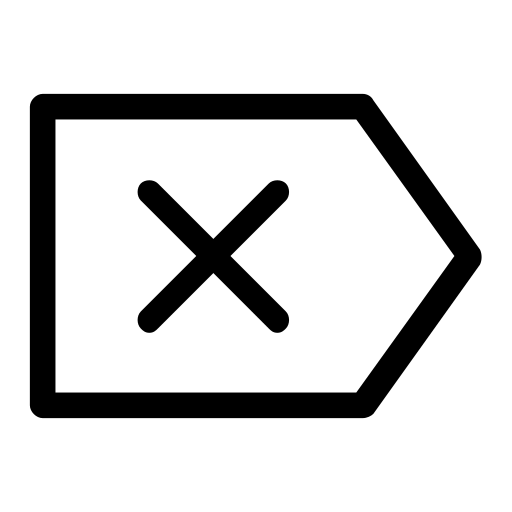
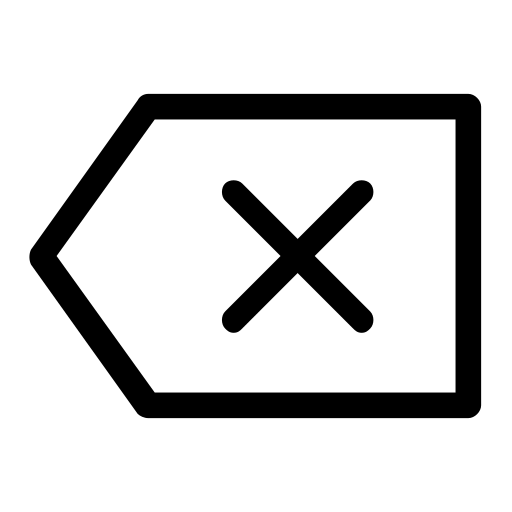
feat: implement keyboard with images for Enter and Backspace, update to-do list, for images import new file custom.d.ts (TEST IF USEFULL), and implementation of a test in the rules of webpack.cjs

Changed region(s): [[0.0312, 0.1562, 0.3125, 0.8438], [0.6875, 0.1562, 0.9688, 0.8438], [0.25, 0.3438, 0.75, 0.6562]]

diff --git a/frontend/src/components/Wordle/Keyboard.tsx b/frontend/src/components/Wordle/Keyboard.tsx
@@ -1,23 +1,48 @@
 import type  { PuzzleStoreType } from "./PuzzleStore";
 import { observer, useLocalObservable } from "mobx-react-lite";
+import enterImg from './img/symbole-de-la-fleche-gauche-dans-un-cercle.png';
+import backspaceImg from './img/retour-arriere.png';
 
 
 export default function Keyboard({ store }: { store: PuzzleStoreType }){	
 
-	// const qwerty = ['qwertyuiop', 'asdfghjkl', '', 'zxcvbnm', '']
-	const qwerty = ['qwertyuiop', 'asdfghjkl', 'zxcvbnm']
-	return (
-  	<div> 
-		{qwerty.map((row) => (
+	const qwerty = [
+	'qwertyuiop',
+	'asdfghjkl',
+	['Enter', ...'zxcvbnm'.split(''), 'Backspace'],
+	];
+	const wideKeys = new Set(["Backspace", "Enter"]);
+	let isWide : boolean
 
-  				<div className="flex justify-center"> 
-				{row.split('').map((key) => (
-					<div className="m-px flex h-12 w-9.5 rounded-md bg-gray-400  font-bold text-2xl items-center justify-center">
-						<button className="uppercase" onClick={() => (store.handleKeyboard(key))}> {key} </button>
-					</div>
-				))}
-				</div>
+	//pour les map ajt potenciellemnt les index (apart pr les couleurs inutile)
+	return (
+	<div>
+		{qwerty.map((row) => (
+		<div className="flex justify-center">
+			{(Array.isArray(row) ? row : row.split('')).map((key) => (
+			isWide = wideKeys.has(key),
+
+			<div
+			className={[
+				"m-px flex h-12 rounded-md bg-gray-400 font-bold text-2xl items-center justify-center",
+				isWide ? "w-15" : "w-9.5",
+			].join(" ")}
+			>
+
+			<button className="uppercase" onClick={() => store.handleKeyboard(key)} >
+			{key === 'Enter' ? (
+				<img src={enterImg} alt="enter" className="h-7 w-7" />
+			) : key === 'Backspace' ? (
+				<img src={backspaceImg} alt="return" className="h-7 w-7" />
+			) : (
+				key
+			)}
+			</button>
+			
+			</div>
 			))}
+		</div>
+		))}
 	</div>
-	)
+	);
 }

diff --git a/frontend/src/custom.d.ts b/frontend/src/custom.d.ts
@@ -1,0 +1,4 @@
+declare module "*.png" {
+  const src: string;
+  export default src;
+}
